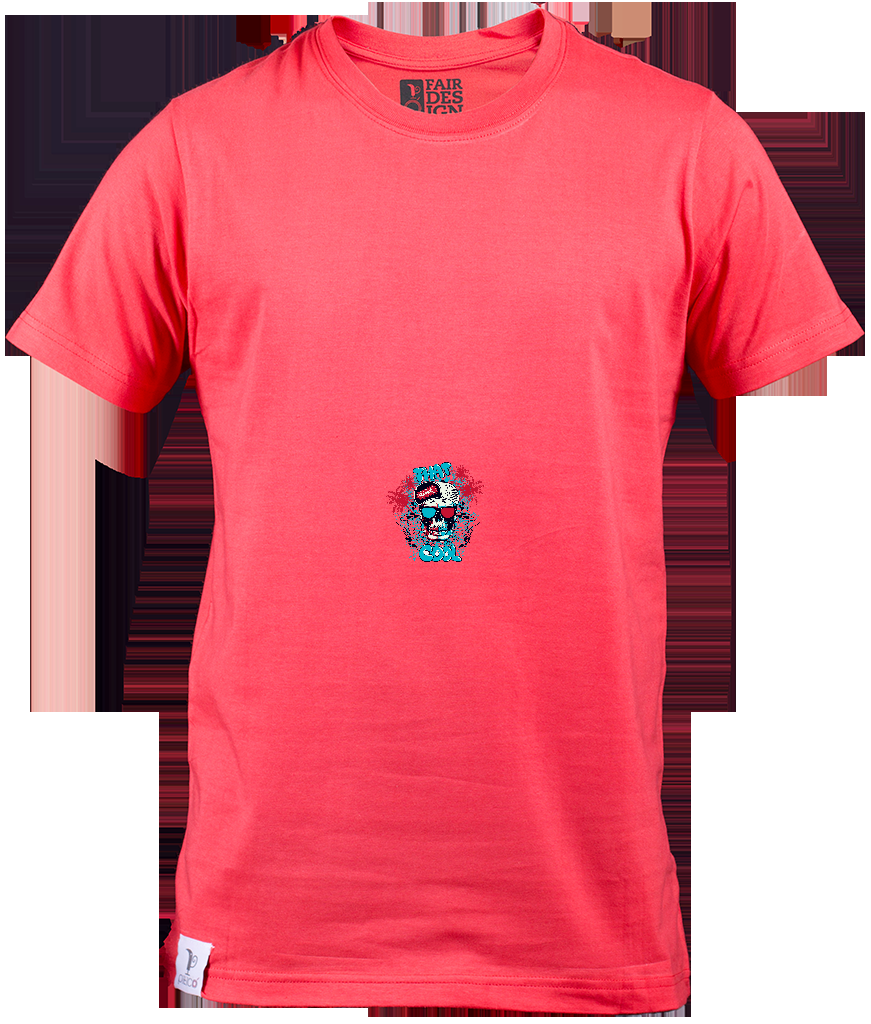
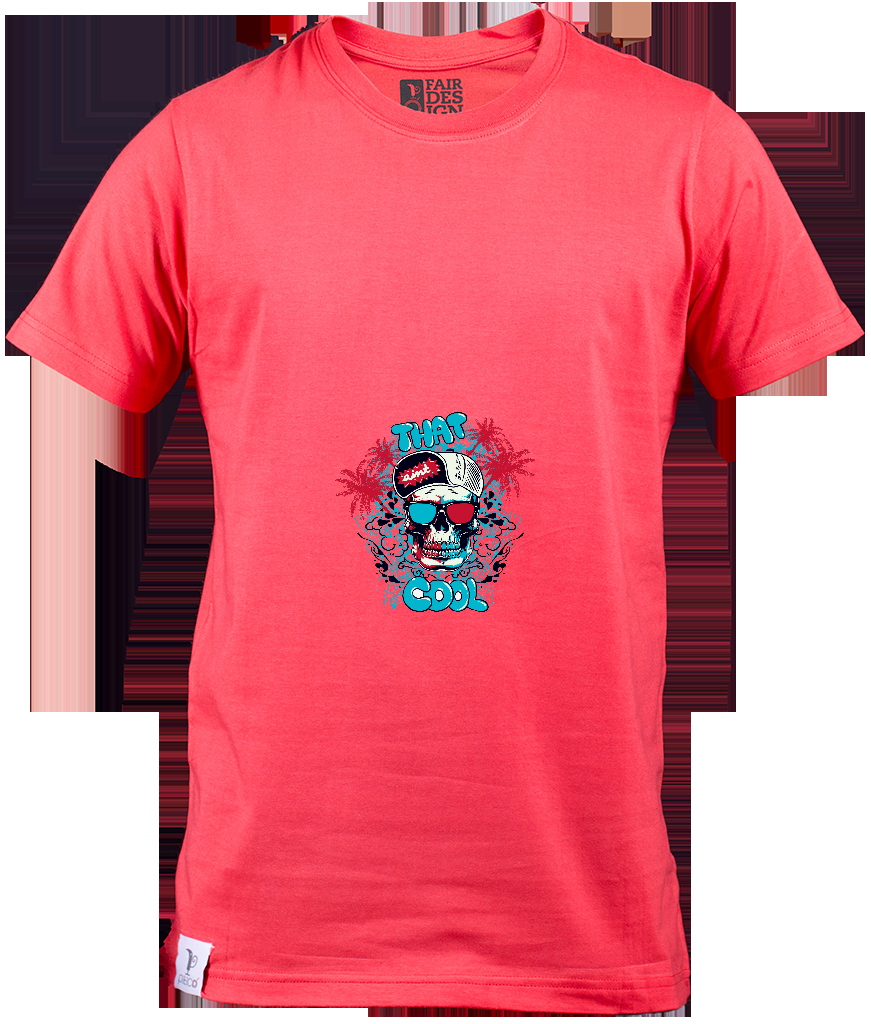
fixed the print

Changed region(s): [[0.372, 0.4062, 0.62, 0.5938]]

diff --git a/output/apply_design.py b/output/apply_design.py
@@ -1,30 +1,58 @@
 import cv2
 import os
 
-def apply_design(product_path, design_path, output_path):
-    # Load the product and design images
-    product_image = cv2.imread(product_path)
-    design = cv2.imread(design_path, cv2.IMREAD_UNCHANGED)  # Include alpha
+def apply_design(product_path, design_path, output_path, new_width, new_height):
+    print(f"Loading images... \nProduct: {product_path} \nDesign: {design_path}")
+    
+    # Check if the files exist
+    if not os.path.exists(product_path):
+        print(f"Product image not found at {product_path}")
+        return
+    if not os.path.exists(design_path):
+        print(f"Design image not found at {design_path}")
+        return
 
-    # Assume the design needs to be resized; change as needed
-    design_resized = cv2.resize(design, (100, 100))  # Adjust based on the product
+    product_img = cv2.imread(product_path)
+    design_img = cv2.imread(design_path, -1)  # Load with transparency
 
-    # For simplicity, place the design on the center of the product
-    x_offset = (product_image.shape[1] - design_resized.shape[1]) // 2
-    y_offset = (product_image.shape[0] - design_resized.shape[0]) // 2
+    if product_img is None or design_img is None:
+        print("Error loading images. Please check the paths.")
+        return
+    else:
+        print("Images loaded successfully.")
 
-    for c in range(0,3):
-        product_image[y_offset:y_offset+design_resized.shape[0], x_offset:x_offset+design_resized.shape[1], c] = \
-            design_resized[:,:,c] * (design_resized[:,:,3]/255.0) +  product_image[y_offset:y_offset+design_resized.shape[0], x_offset:x_offset+design_resized.shape[1], c] * (1.0 - design_resized[:,:,3]/255.0)
+    # Resize the design image
+    design_resized = cv2.resize(design_img, (new_width, new_height))
+    print(f"Design resized to {new_width}x{new_height}")
 
-    # Save the result
-    cv2.imwrite(output_path, product_image)
+    # Calculate the center position
+    x_offset = (product_img.shape[1] - new_width) // 2
+    y_offset = (product_img.shape[0] - new_height) // 2
+    print(f"Applying design at position: {x_offset}, {y_offset}")
+
+    # Apply the design
+    for c in range(0, 3):
+        alpha = design_resized[:, :, 3] / 255.0  # Alpha channel from the design
+        product_img[y_offset:y_offset+design_resized.shape[0], x_offset:x_offset+design_resized.shape[1], c] = \
+            alpha * design_resized[:, :, c] + \
+            product_img[y_offset:y_offset+design_resized.shape[0], x_offset:x_offset+design_resized.shape[1], c] * (1 - alpha)
+
+    # Save the output
+    if cv2.imwrite(output_path, product_img):
+        print(f"Design applied and image saved to: {output_path}")
+    else:
+        print("Failed to save the image. Check the output path and permissions.")
 
 # Example usage
 if __name__ == "__main__":
-    product_path = '../products/tshirt.png'
-    design_path = '../designs/design1.png'
-    output_path = 'tshirt_with_design.png'
+    product_path = '../products/tshirt.png'  # Adjust this path if necessary
+    design_path = '../designs/design1.png'  # Adjust this path if necessary
+    output_path = 'tshirt_with_design.png'  # This is where the output will be saved
 
-    apply_design(product_path, design_path, output_path)
+    # Example resizing parameters
+    new_width = 200
+    new_height = 200
+
+    apply_design(product_path, design_path, output_path, new_width, new_height)
+
     print("Design applied and image saved to output folder.")
